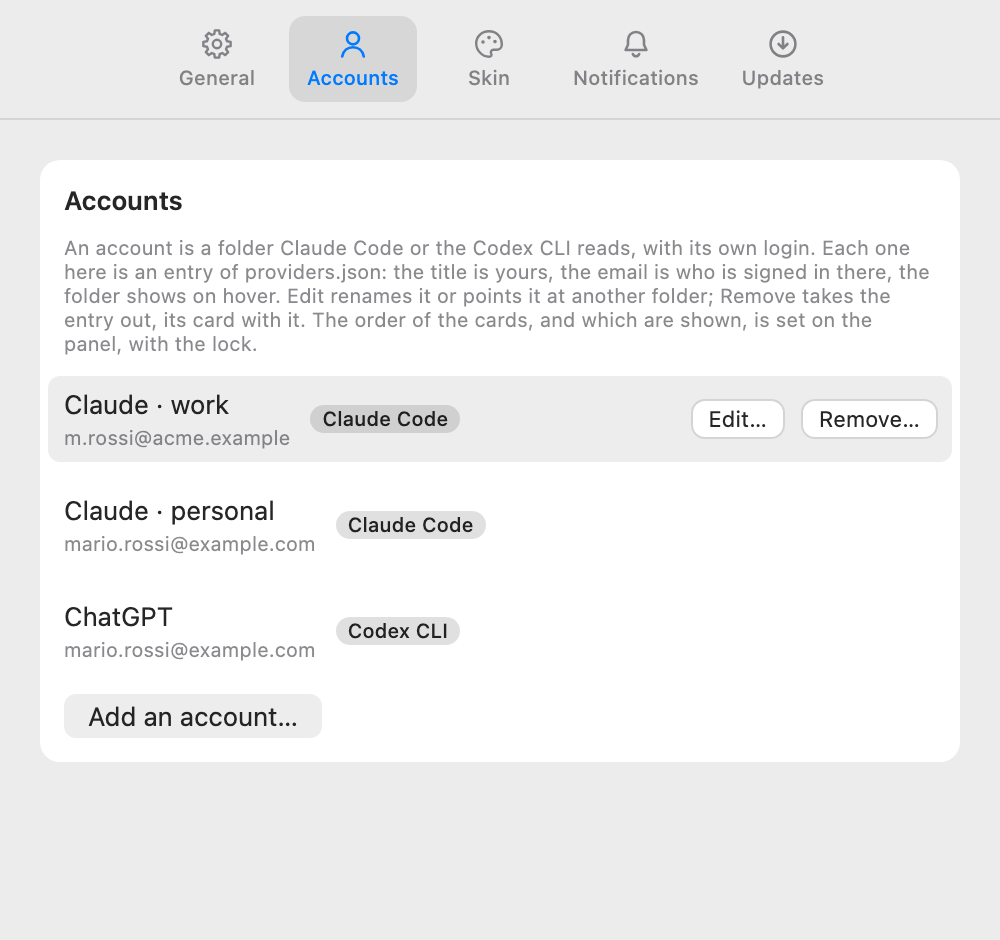
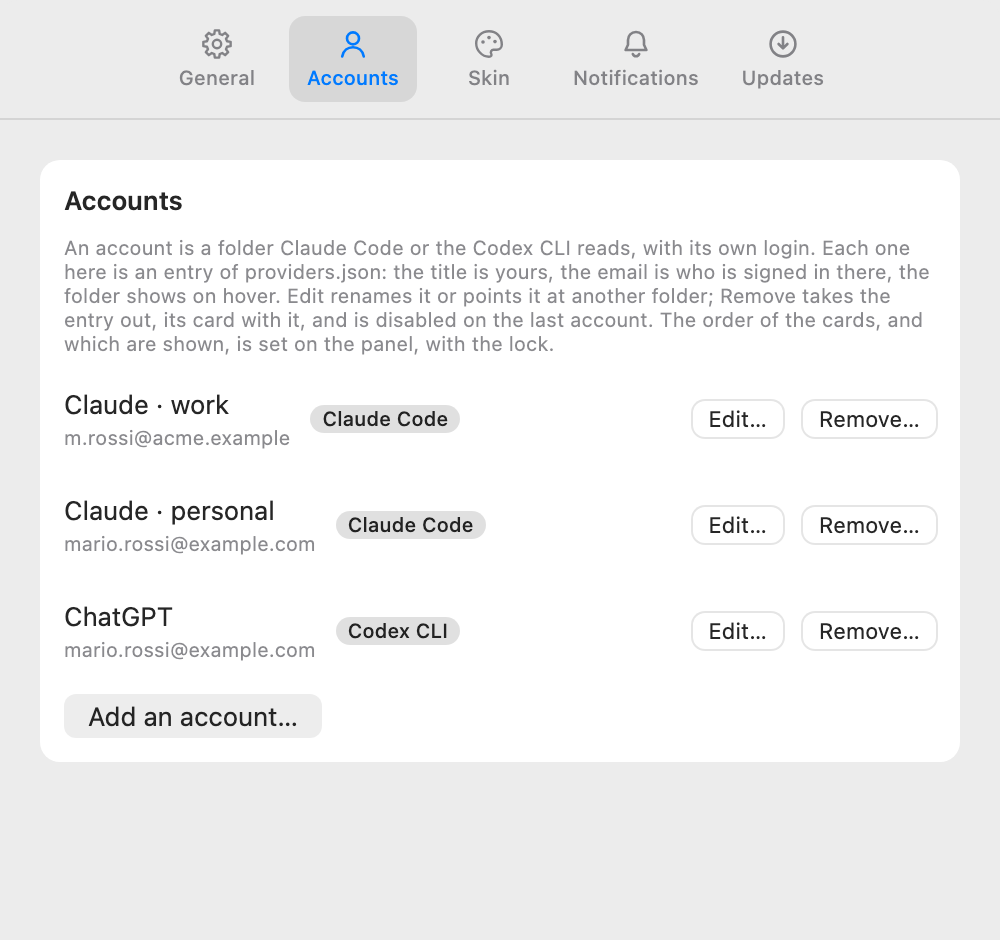
docs(features): the accounts rows show Edit and Remove always, not on hover
Remove is disabled on the last account.

diff --git a/docs/features/2026-11-03-accounts/proposal.md b/docs/features/2026-11-03-accounts/proposal.md
@@ -35,11 +35,11 @@ design keeps them apart:
 ## Settings › Accounts
 
 One row per entry: the **title**, which is the account's alias and the name on its card and in its notices ("Claude · work");
-under it the **email** the folder is signed in with; a chip with the tool; the folder on hover. On hover a row shows
-**Edit…** and **Remove…**; under the list, **Add an account…**. The two entries the app writes the first time are rows like the
+under it the **email** the folder is signed in with; a chip with the tool; the folder on hover. Every row ends with **Edit…**
+and **Remove…**, always in sight; Remove is disabled on the last account. Under the list, **Add an account…**. The two entries the app writes the first time are rows like the
 others: they can be renamed, pointed at another folder, and removed.
 
-![Settings, Accounts: three rows, "Claude · work", "Claude · personal" and ChatGPT, each with the email it is signed in with under its name and a chip with the tool; the first row hovered, with Edit and Remove; under the list, Add an account](./proposal-settings-accounts.png)
+![Settings, Accounts: three rows, "Claude · work", "Claude · personal" and ChatGPT, each with the email it is signed in with under its name, a chip with the tool, and Edit and Remove at its end; under the list, Add an account](./proposal-settings-accounts.png)
 
 The email is a fact the app reads, never writes: Claude Code keeps it in the folder's `.claude.json`, the Codex CLI inside the
 identity token of its `auth.json`. It is shown where the person goes on purpose, in Settings and in the banner that says a
